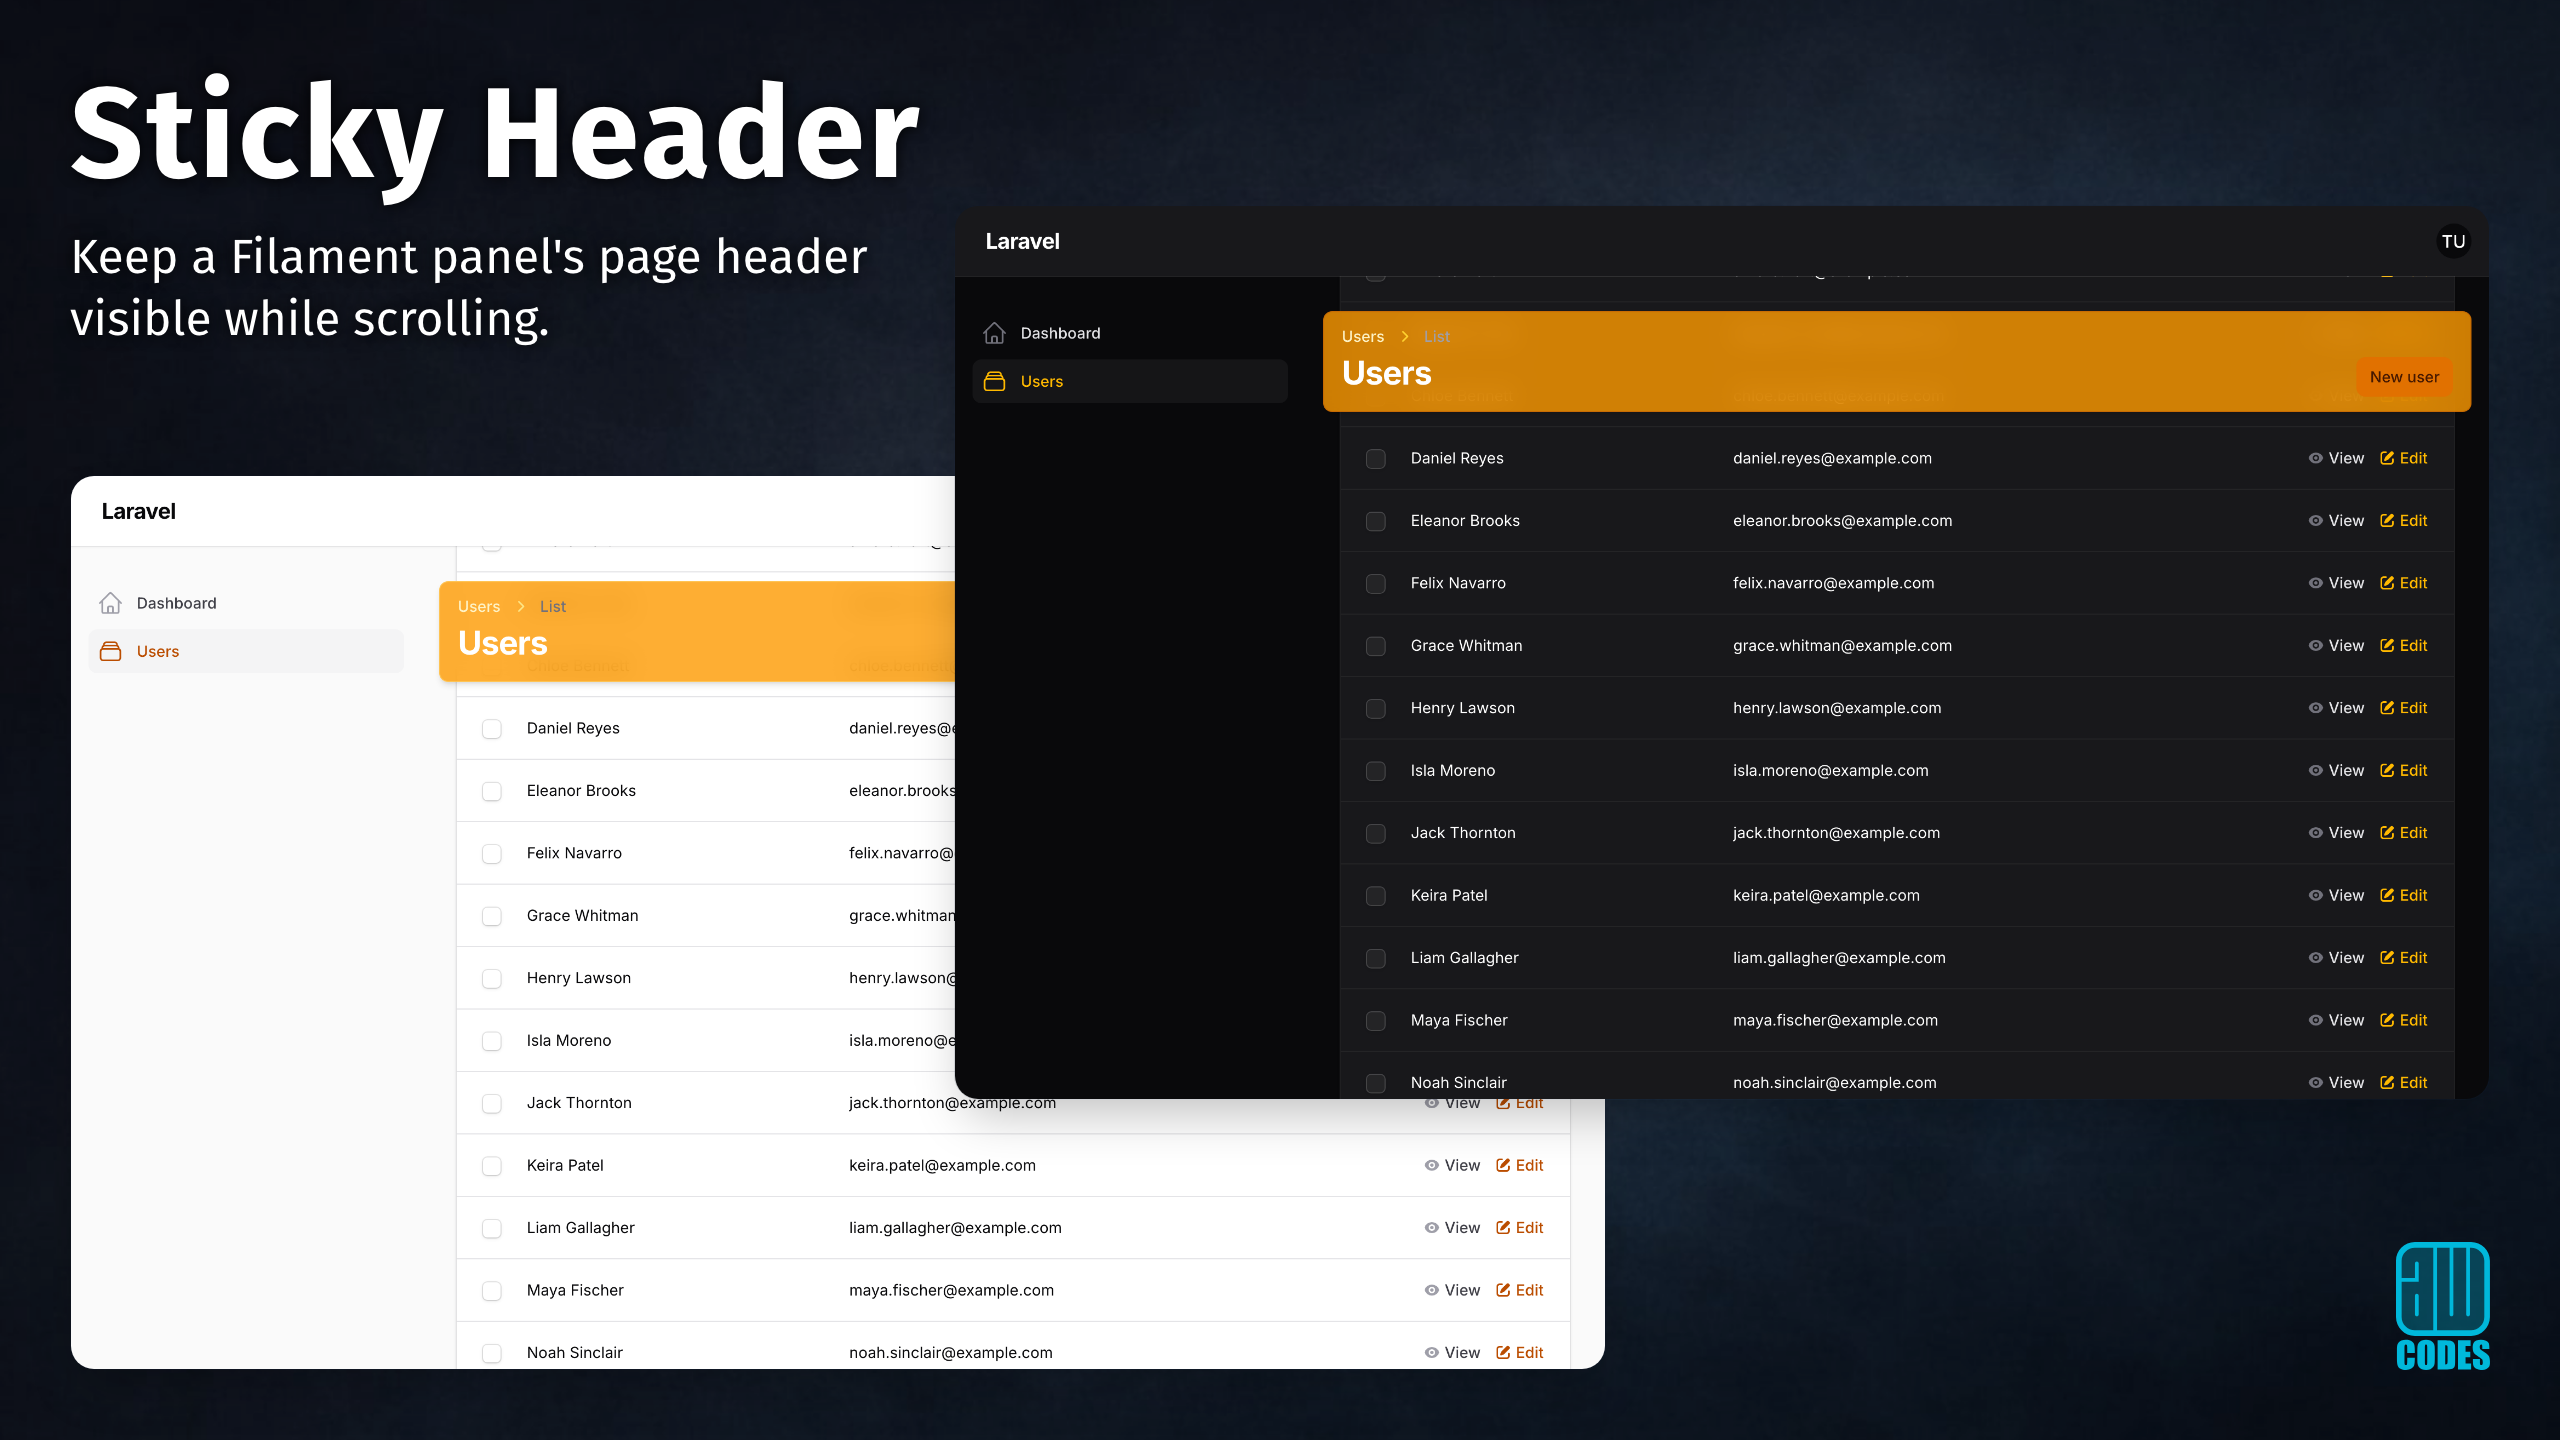
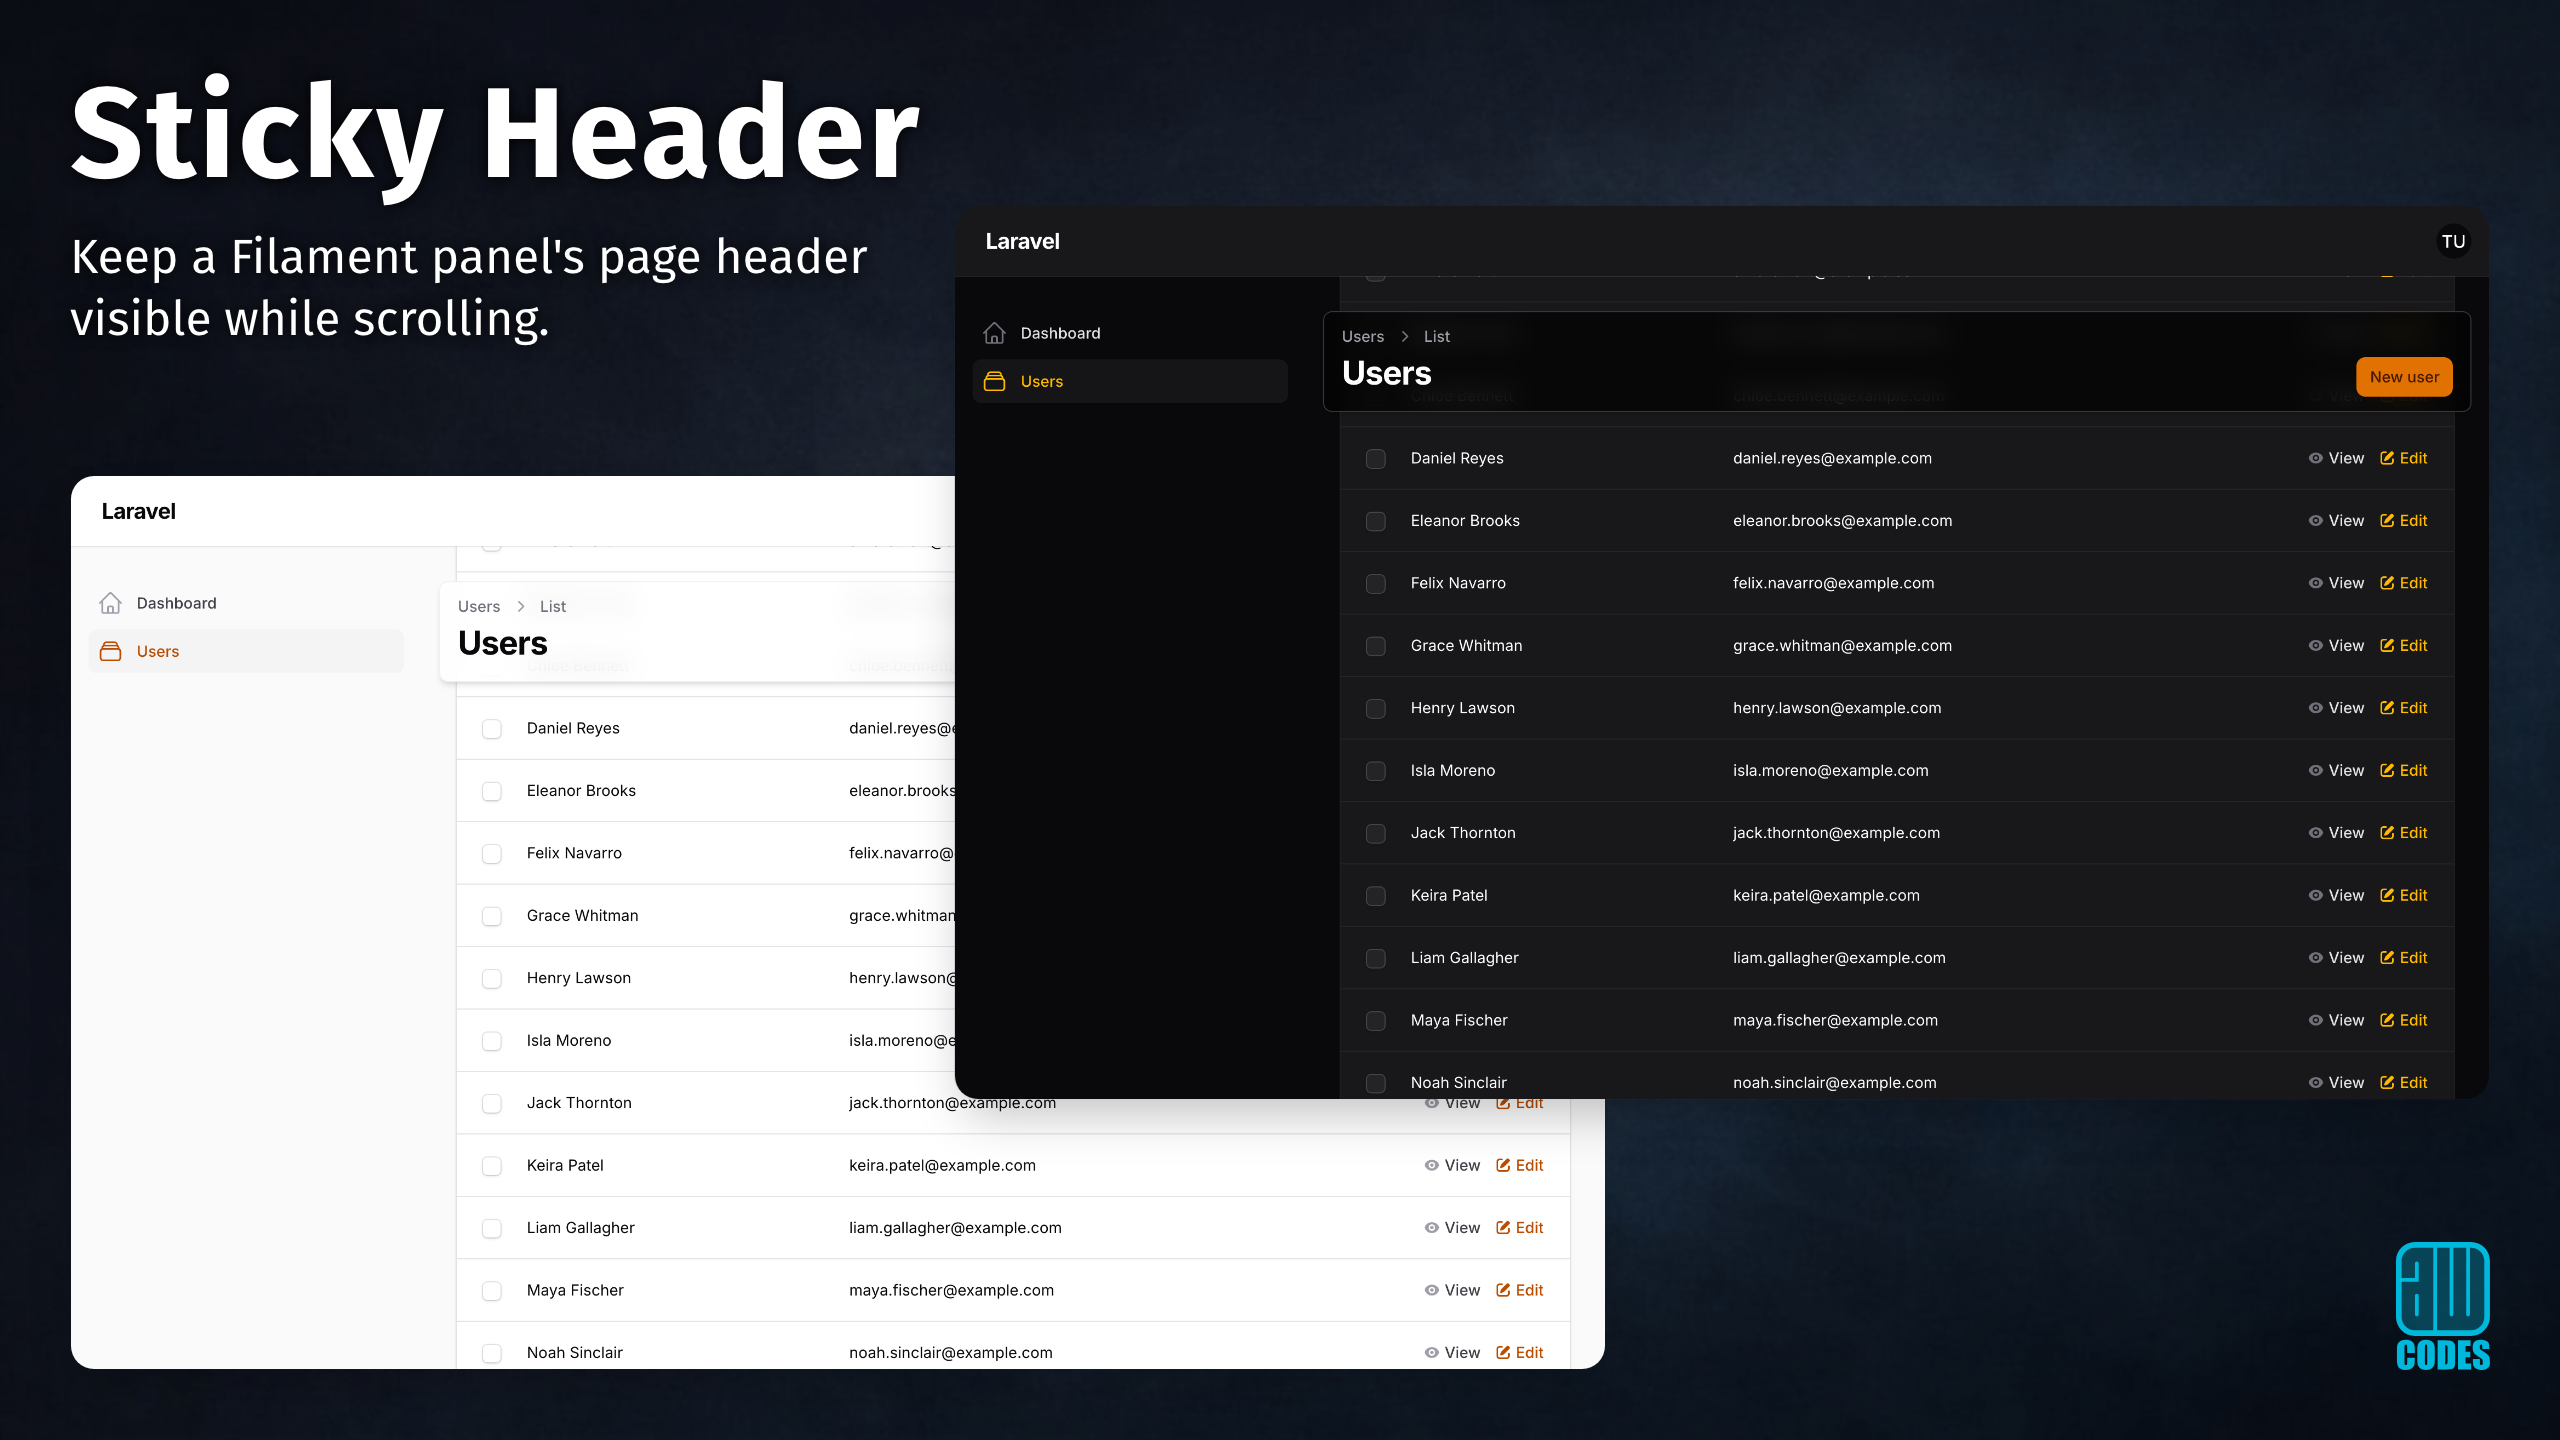
chore: show the floating theme instead of the coloured one
The Workbench no longer uses colored(): it defaults to the floating theme,
with ?header=default for the full-width bar. The coloured screenshots are
gone from the docs, and the share cards now show the floating header.
Cards render from focus-templates v1.1.1.

Changed region(s): [[0.5, 0.2188, 0.9688, 0.3125], [0.1562, 0.4062, 0.375, 0.5]]

diff --git a/focus.php b/focus.php
@@ -40,33 +40,27 @@ return ScreenshotSuite::make()
             ->ready($scrolled)
             ->viewport(),
 
-        Screenshot::make('colored')
-            ->viewportSize(...$docs)
-            ->visit('/admin/users?header=colored')
-            ->ready($scrolled)
-            ->viewport(),
-
         // The share-image source, shaped to the card templates' screenshot slots. The two-up templates show it
         // dark in slot 1 and light in slot 2, so it is captured in both themes.
-        Screenshot::make('card-colored')
+        Screenshot::make('card-floating')
             ->viewportSize(...$card)
-            ->visit('/admin/users?header=colored')
+            ->visit('/admin/users?header=floating')
             ->ready($scrolled)
             ->viewport(),
     ])
-    ->cardTemplates('https://github.com/awcodes/focus-templates/tree/v1.1.0/dist')
+    ->cardTemplates('https://github.com/awcodes/focus-templates/tree/v1.1.1/dist')
     ->cards([
         // Open Graph and the GitHub social preview share one 2400x1260 template; GitHub crops 30px top and bottom.
         Card::make('social')
             ->template('two-up-wide')
             ->title('Sticky Header')
-            ->screenshots(['card-colored', 'card-colored'])
+            ->screenshots(['card-floating', 'card-floating'])
             ->sizes([Size::OpenGraph, Size::GitHubSocial]),
 
         // The Filament plugin directory's 2560x1440 thumbnail.
         Card::make('thumbnail')
             ->template('two-up')
             ->title('Sticky Header')
-            ->screenshots(['card-colored', 'card-colored'])
+            ->screenshots(['card-floating', 'card-floating'])
             ->sizes([Size::Filament]),
     ]);

diff --git a/workbench/app/Providers/Filament/AdminPanelProvider.php b/workbench/app/Providers/Filament/AdminPanelProvider.php
@@ -43,11 +43,10 @@ class AdminPanelProvider extends PanelProvider
             ->login(Login::class)
             ->theme('workbench')
             ->plugins([
-                // The floating coloured theme unless `?header=default` or `?header=floating` asks for another, so
-                // documentation screenshots can show each theme.
+                // The floating theme unless `?header=default` asks for the full-width bar, so documentation
+                // screenshots can show both.
                 StickyHeaderPlugin::make()
-                    ->floating(fn (): bool => $this->getHeaderTheme() !== 'default')
-                    ->colored(fn (): bool => $this->getHeaderTheme() === 'colored'),
+                    ->floating(fn (): bool => $this->getHeaderTheme() !== 'default'),
             ])
             ->resources([
                 UserResource::class,
@@ -73,6 +72,6 @@ class AdminPanelProvider extends PanelProvider
 
     private function getHeaderTheme(): string
     {
-        return (string) request()->query('header', 'colored');
+        return (string) request()->query('header', 'floating');
     }
 }

diff --git a/docs/configuration.md b/docs/configuration.md
@@ -37,9 +37,6 @@ StickyHeaderPlugin::make()
     ->colored()
 ```
 
-![A scrolled Filament users list whose page header is pinned as a rounded card filled with the panel's primary colour, with a white Users heading and lightened breadcrumbs](assets/colored-light.png#gh-light-mode-only)
-![A scrolled Filament users list whose page header is pinned as a rounded card filled with the panel's primary colour, with a white Users heading and lightened breadcrumbs](assets/colored-dark.png#gh-dark-mode-only)
-
 > [!IMPORTANT]
 > `colored()` only takes effect alongside `floating()`. On its own it does nothing — the theme resolves to the default bar — so the two are always used together.
 
